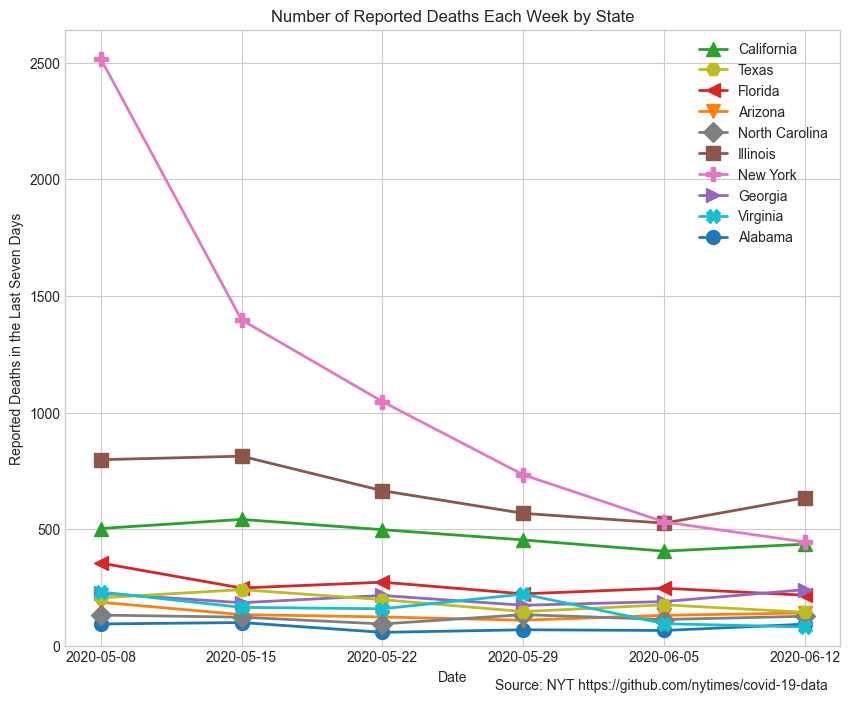
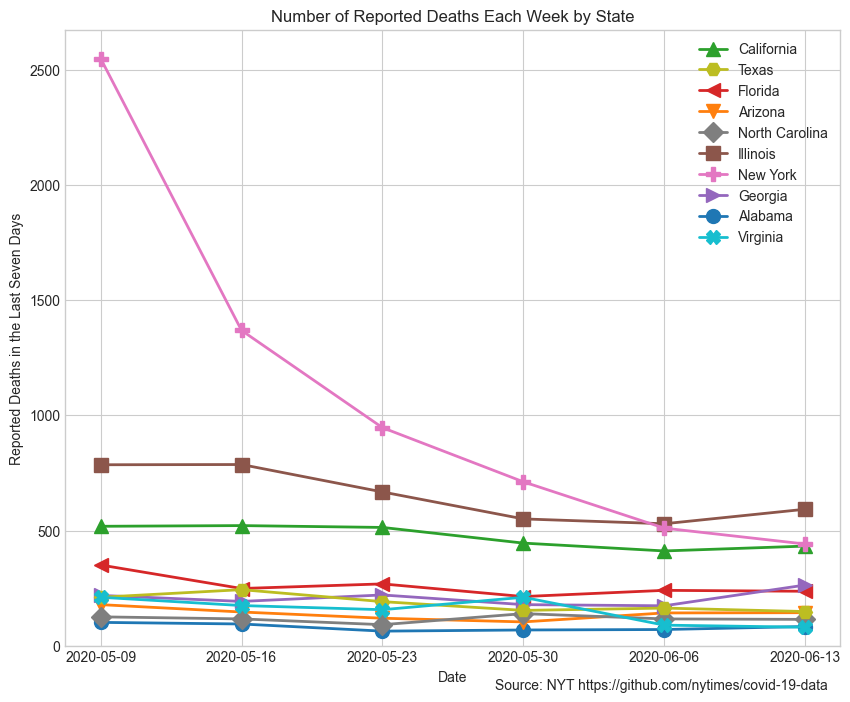
update with 6/13 data

diff --git a/covid.py b/covid.py
@@ -119,7 +119,8 @@ def plot_over_time(
 
     plt.savefig(f"plots/{geo}_{stat}.png", bbox_inches="tight")
 
-    return plt.show()
+    # return plt.show()
+    return
 
 
 # %% State Plots

diff --git a/README.md b/README.md
@@ -1,6 +1,6 @@
 # Coronavirus in the U.S.
 
-The plots below show the ten states and ten counties with the most reported cases of Covid-19 in the last seven days, as of June 12, 2020. 
+The plots below show the ten states and ten counties with the most reported cases of Covid-19 in the last seven days, as of June 13, 2020. 
 
 ## Reported cases by state
 
